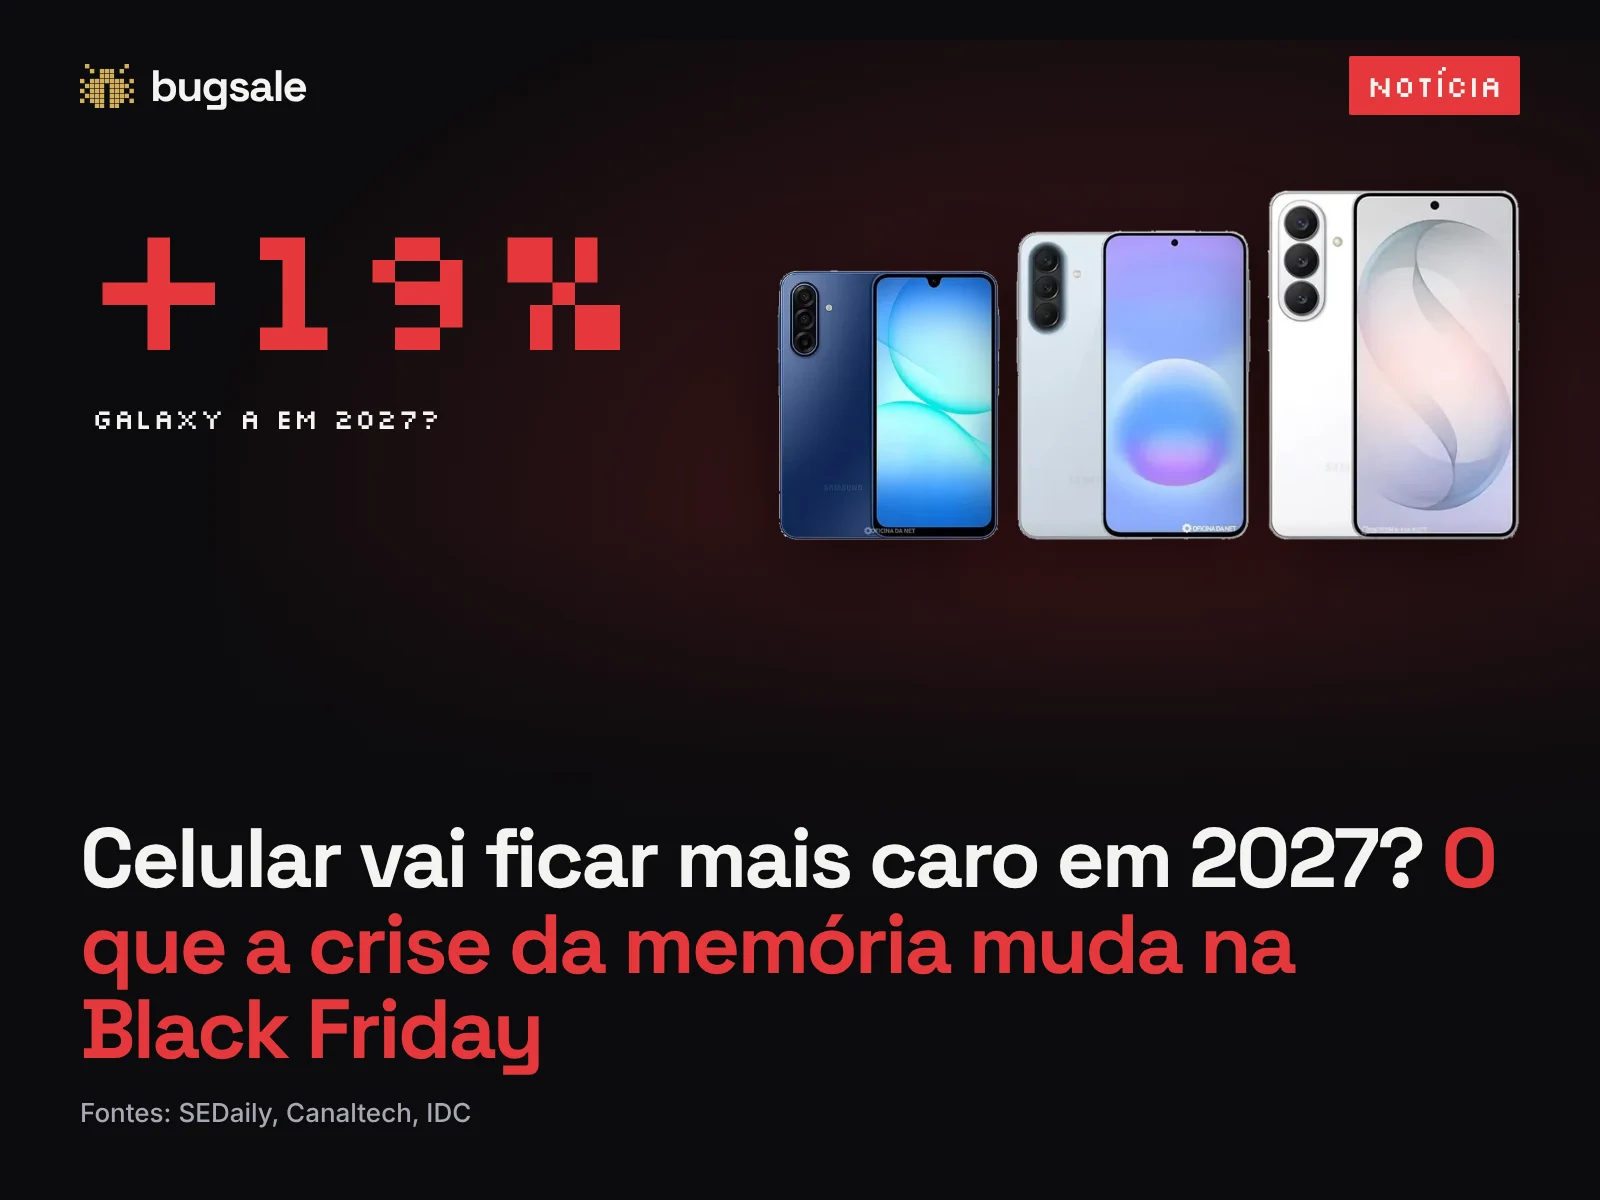
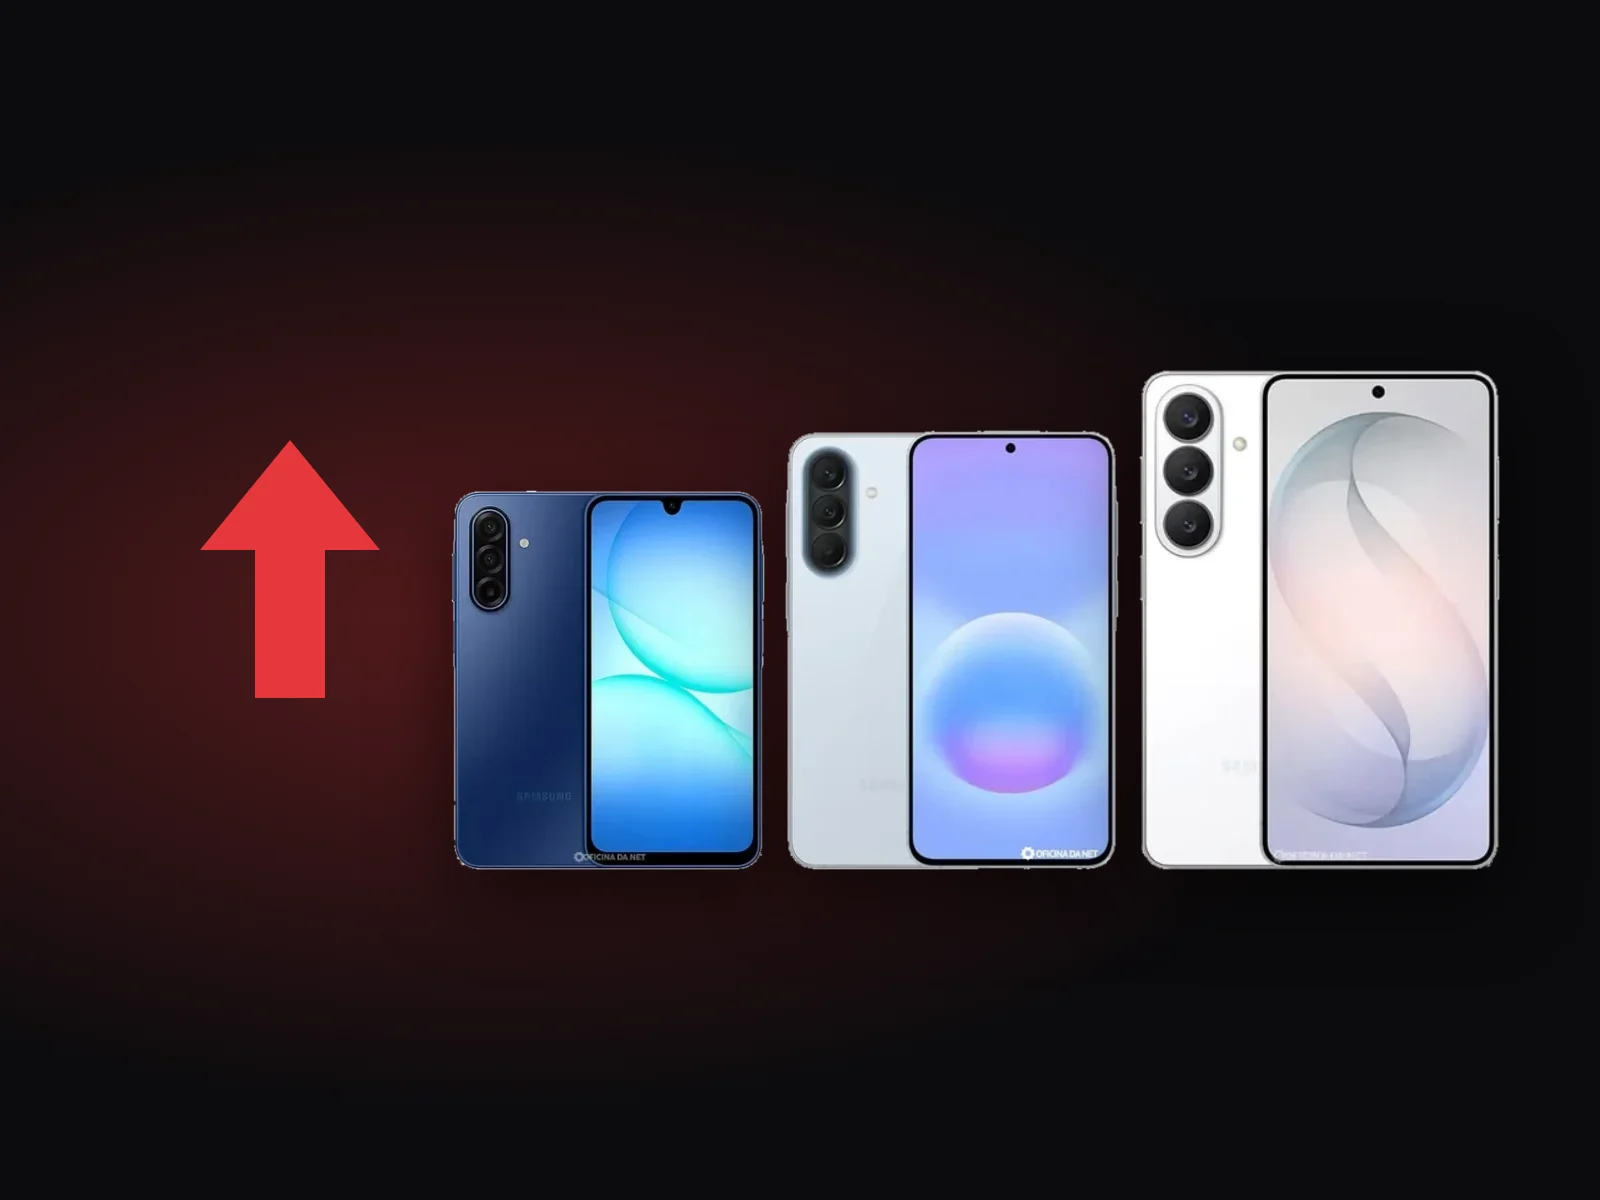
Artigos de hoje: capas sem texto, card de melhores preços ao lado do título, etiquetas em Inter, oferta da Amazon do Galaxy A17 5G e tag de afiliado aplicada automaticamente (Amazon e Magalu)
Claude-Session: https://claude.ai/code/session_012pixyD49oAFXUm2FNedUbT

diff --git a/static/js/site.js b/static/js/site.js
@@ -793,7 +793,14 @@ function renderArticle(){
         <div class="share"><a class="ico-btn wa" href="https://wa.me/?text=${shareText}%20${encodeURIComponent(location.href)}" target="_blank" rel="noopener" aria-label="Compartilhar no WhatsApp" title="Compartilhar no WhatsApp">${ICO_WA}</a><button type="button" class="ico-btn" id="copyLink" aria-label="Copiar link" title="Copiar link">${ICO_LINK}</button></div>
       </div>
     </div>
-    ${a.capa ? `<figure class="cover mt-cover"><img src="${R}${a.capa.src}" alt="" width="1600" height="1200"><figcaption>${esc(a.capa.credito)}.</figcaption></figure>` : ""}
+    ${(()=>{ /* card de melhores preços ao lado do título: o menor preço de hoje de cada celular citado */
+      const ids = S.ofertasTopo || (S.blocos||[]).filter(k=>k.item).map(k=>k.item.id);
+      const rows = ids.map(id=>P(id)).filter(q=>q && q.ofertas && q.ofertas.lista && q.ofertas.lista.length).map(q=>({q, o:q.ofertas.lista.slice().sort((x,y)=>x.preco-y.preco)[0]})).slice(0,5);
+      if(!rows.length) return "";
+      const pesq = rows.map(r=>r.q.ofertas.pesquisa).filter(Boolean).sort().pop();
+      return `<section class="ofertas-mini om-topo om-varios" aria-label="Melhores preços de hoje"><div class="om-head"><b>Melhores preços de hoje</b><span>${pesq?`Pesquisa em ${dataHora(pesq)}`:""}</span></div>${rows.map((r,i)=>`<a class="om-btn${i===0?" melhor":""}" href="${esc(r.o.url)}" target="_blank" rel="sponsored nofollow noopener"><span class="om-loja">${esc(r.q.nome)}<small>${esc(r.o.loja)}</small></span><span class="om-dir"><b>${brl(r.o.preco)}</b><i aria-hidden="true">↗</i></span></a>`).join("")}</section>`;
+    })()}
+    ${a.capa ? `<figure class="cover mt-cover"><img src="${R}${a.capa.src}" alt="${esc(a.titulo)}" width="1600" height="1200"><figcaption>${esc(a.capa.credito)}.</figcaption></figure>` : ""}
     <div class="post-body">
       ${b[0] ? `<p class="lede">${inl(b[0])}</p>` : ""}
       ${corpo}

diff --git a/static/css/site.css b/static/css/site.css
@@ -2152,3 +2152,16 @@ html.v2 .post-body .mt-dest p{margin:8px 0 0}
   .mt-acoes .btn{flex:1;justify-content:center}
 }
 .mt-tab thead th{color:#F4F4F1 !important}
+
+/* matérias: etiquetas em Inter (a fonte pixelada fica para o game) e card de preços ao lado do título */
+.mt-faixa{font:700 12px/1 var(--body) !important;text-transform:uppercase !important;letter-spacing:.06em}
+.mt-dest .kicker{font:700 12px var(--body) !important;text-transform:uppercase !important;letter-spacing:.06em}
+.om-varios .om-loja{display:flex;flex-direction:column;gap:2px;font-weight:600}
+.om-varios .om-loja small{font-weight:400;font-size:12px;opacity:.7}
+.om-varios .om-btn.melhor .om-loja small{opacity:.8}
+.om-varios .om-btn{height:auto !important;min-height:48px;padding:8px 16px !important;align-items:center}
+.om-varios .om-loja{line-height:1.25}
+html.v2 .ofertas-mini.om-varios .om-btn{height:auto !important;min-height:52px !important;padding:8px 16px 8px 20px !important;border-radius:16px !important}
+html.v2 .ofertas-mini.om-varios .om-loja{display:flex !important;flex-direction:column !important;align-items:flex-start !important;text-align:left !important;gap:2px}
+html.v2 .ofertas-mini.om-varios .om-loja small{font:400 12px var(--body) !important}
+html.v2 .ofertas-mini.om-varios .om-btn + .om-btn{margin-top:8px !important}

diff --git a/build.py b/build.py
@@ -66,6 +66,26 @@ for m in CAT['modelos']:
         preco=m.get('preco_medio_brl'), img=(f"img/cat/{m['id']}.webp" if os.path.exists(os.path.join(ROOT,'static/img/cat',m['id']+'.webp')) else None),
         precoInfo=(lambda p: p and dict(data=p.get('data_consulta'), canais=p.get('quantidade_canais'), min=p.get('menor_brl'), max=p.get('maior_brl'), gb=p.get('armazenamento_referencia_gb')))(m.get('pesquisa_preco'))))
 
+# ---------- links de afiliado aplicados automaticamente ----------
+# Amazon: link do produto + tag; Magalu: link do produto + códigos do Parceiro Magalu.
+# Links curtos já gerados nos painéis (link.amazon, onelink, meli.la) passam direto.
+# Mercado Livre: o contrato pede o gerador oficial, então os links do ML continuam vindo do painel.
+from urllib.parse import urlsplit, urlunsplit, parse_qsl, urlencode
+AMAZON_TAG = 'bugsale-20'
+MAGALU = dict(partner_id='3440', promoter_id='5850299', seller_id='magazineluiza')
+def afiliado(url):
+    u = urlsplit(url); host = u.netloc.lower(); q = dict(parse_qsl(u.query))
+    if host.endswith('amazon.com.br'):
+        import re
+        m = re.search(r'/(?:dp|gp/product)/([A-Z0-9]{10})', u.path)
+        if m: return f'https://www.amazon.com.br/dp/{m.group(1)}?tag={AMAZON_TAG}'
+        q['tag'] = AMAZON_TAG
+    elif host.endswith('magazineluiza.com.br'):
+        for k, v in MAGALU.items(): q.setdefault(k, v)
+    else:
+        return url
+    return urlunsplit((u.scheme or 'https', u.netloc, u.path, urlencode(q), ''))
+
 # ---------- js/data.js (usado pelas páginas) ----------
 phones = {}
 for c in celulares:
@@ -79,7 +99,7 @@ for c in celulares:
     cut = f"img/cut/{c['img']}.webp"
     q['cut'] = cut if os.path.exists(os.path.join(DIST, cut)) else q['img']
     o = c.get('ofertas') or {}
-    lista = [x for x in o.get('lista', []) if x.get('preco') and x.get('url')][:3]
+    lista = [dict(x, url=afiliado(x['url'])) for x in o.get('lista', []) if x.get('preco') and x.get('url')][:3]
     if lista:
         q['ofertas'] = dict(pesquisa=o.get('pesquisa',''), lista=sorted(lista, key=lambda x: x['preco']))
     if c.get('historico'): q['historico'] = c['historico']   # [{"mes": "2026-03", "preco": 3299}, ...]
